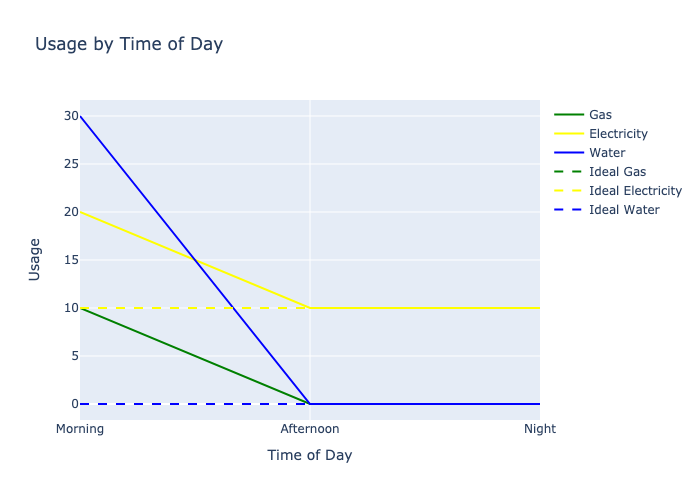
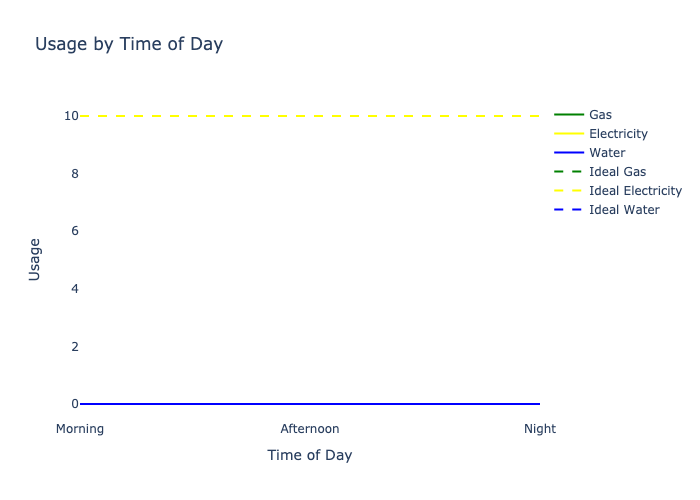
Day Overview view

diff --git a/frontend/src/pages/OverviewDay.tsx b/frontend/src/pages/OverviewDay.tsx
@@ -1,0 +1,92 @@
+import React, { useState, useEffect } from 'react'
+import Navbar from '../components/navbar/Navbar'
+import waves from '../wickedbackground.svg'
+
+type Costs = {
+  electricity: number;
+  gas: number;
+  water: number;
+};
+
+type Usage = {
+  electricity: number;
+  gas: number;
+  water: number;
+};
+
+function OverviewDay() {
+
+  const [graphData, setGraphData] = useState("");
+
+  const [totalCosts, setTotalCosts] = useState<Costs>({ electricity: 0, gas: 0, water: 0 });
+  const [totalUsage, setTotalUsage] = useState<Usage>({ electricity: 0, gas: 0, water: 0 });
+
+
+  useEffect(() => {
+    const fetchData = async () => {
+      const token = localStorage.getItem('token');
+      const response = await fetch('http://localhost:5000/daygraph', {
+        method: 'POST',
+        headers: {
+          'Content-Type': 'application/json',
+          'Authorization': `Bearer ${token}`
+        },
+        body: JSON.stringify({
+          "date": new Date().toISOString().split('T')[0]
+          // "date": "2024-01-01"
+        })
+      });
+
+      if (response.ok) {
+        const data = await response.json();
+        console.log(data);
+        setTotalCosts(data.data.total_costs);
+        setTotalUsage(data.data.total_usage);
+        setGraphData(data.data.graph);
+      } else {
+        console.log('Error:', response.status);
+      }
+    };
+
+    fetchData();
+  }, []);
+
+  
+
+  return (
+    <div className="h-screen bg-white flex items-center justify-center px-6 relative">
+      <img src={waves} alt="Waves" className="absolute bottom-0 left-0 w-full h-full" />
+      <div className="z-10 relative">
+        <Navbar selected={1}/>
+        
+        <div className="-mt-36">
+          <h1 className="text-4xl font-bold text-center">Overview</h1>
+          <h2 className="text-3xl font-bold text-center mt-16 mb-8">Today's Usage</h2>
+
+          <img src={graphData} alt="Graph" />
+
+          <div className="flex space-x-16 mt-16">
+            <div className="flex flex-col items-center space-y-2">
+              <h3 className="text-xl font-bold">Electricity</h3>
+              <p className="text-sm">Total: {totalUsage.electricity} kWh</p>
+              <p className="text-sm">Cost: {totalCosts.electricity} €</p>
+            </div>
+            <div className="flex flex-col items-center space-y-2">
+              <h3 className="text-xl font-bold">Gas</h3>
+              <p className="text-sm">Total: {totalUsage.gas} m³</p>
+              <p className="text-sm">Cost: {totalCosts.gas} €</p>
+            </div>
+            <div className="flex flex-col items-center space-y-2">
+              <h3 className="text-xl font-bold">Water</h3>
+              <p className="text-sm">Total: {totalUsage.water} m³</p>
+              <p className="text-sm">Cost: {totalCosts.water} €</p>
+            </div>
+          </div>
+        </div>
+      </div>
+    </div>
+  )
+
+}
+
+export default OverviewDay

diff --git a/frontend/src/App.tsx b/frontend/src/App.tsx
@@ -2,7 +2,7 @@ import React from 'react';
 import { BrowserRouter as Router, Route, Routes } from 'react-router-dom';
 import Register from './pages/auth/Register';
 import Login from './pages/auth/Login';
-import Overview from './pages/Overview';
+import OverviewDay from './pages/OverviewDay';
 import MyCalendar from './pages/calendar/MyCalendar';
 import AddData from './pages/AddData';
 import User from './pages/User';
@@ -16,7 +16,7 @@ function App() {
         <Route path="/register" element={<Register />} />
         <Route path="/login" element={<Login />} />
         <Route path="/" element={<h1>Home Page</h1>} />
-        <Route path="/overview" element={<Overview />} />
+        <Route path="/overview" element={<OverviewDay />} />
         <Route path="/calendar" element={<MyCalendar />} />
         <Route path="/createevent" element={<CreateEvent />} />
         <Route path="/newinput" element={<NewInput />} />

diff --git a/backend/app.py b/backend/app.py
@@ -243,10 +243,15 @@ def getUserDict(email):
 
 def getDayMorningUsage(email, date):
     day_data = consumption_data.find_one({'email': email, 'date': date, 'timeslot': 'Morning'})
+    if not day_data:
+        return [0, 0, 0]
     return [day_data["gas"], day_data["electricity"], day_data["water"]]
+        
 
 def getIdealDayMorningUsage(email, date):
     day_data = consumption_data.find_one({'email': email, 'date': date, 'timeslot': 'Morning'})
+    if not day_data:
+        return [0, ESSENTIAL_ENERGY, 0]
     if day_data["atHome"]:
         return [day_data["gas"], day_data["electricity"], day_data["water"]]
     else:
@@ -254,6 +259,14 @@ def getIdealDayMorningUsage(email, date):
 
 def getDayAfternoonUsage(email, date):
     day_data = consumption_data.find_one({'email': email, 'date': date, 'timeslot': 'Afternoon'})
+    if not day_data:
+        return [0, 0, 0]
+    return [day_data["gas"], day_data["electricity"], day_data["water"]]
+
+def getIdealDayAfternoonUsage(email, date):
+    day_data =consumption_data.find_one({'email': email, 'date': date, 'timeslot': 'Afternoon'})
+    if not day_data:
+        return [0, ESSENTIAL_ENERGY, 0]
     if day_data["atHome"]:
         return [day_data["gas"], day_data["electricity"], day_data["water"]]
     else:
@@ -261,6 +274,14 @@ def getDayAfternoonUsage(email, date):
 
 def getDayNightUsage(email, date):
     day_data = consumption_data.find_one({'email': email, 'date': date, 'timeslot': 'Night'})
+    if not day_data:
+        return [0, 0, 0]
+    return [day_data["gas"], day_data["electricity"], day_data["water"]]
+
+def getIdealDayNightUsage(email, date):
+    day_data = consumption_data.find_one({'email': email, 'date': date, 'timeslot': 'Night'})
+    if not day_data:
+        return [0, ESSENTIAL_ENERGY, 0]
     if day_data["atHome"]:
         return [day_data["gas"], day_data["electricity"], day_data["water"]]
     else:
@@ -355,8 +376,6 @@ def getDayGraph():
     afternoon_usage = getDayAfternoonUsage(email, date)
     night_usage = getDayNightUsage(email, date)
 
-
-
     timeslots = ['Morning', 'Afternoon', 'Night']
 
     fig = go.Figure()
@@ -371,8 +390,8 @@ def getDayGraph():
     fig.add_trace(go.Scatter(x=timeslots, y=[morning_usage[2], afternoon_usage[2], night_usage[2]], mode='lines', name='Water', line=dict(color='blue')))
 
     ideal_morning_usage = getIdealDayMorningUsage(email, date)
-    ideal_afternoon_usage = getDayAfternoonUsage(email, date)
-    ideal_night_usage = getDayNightUsage(email, date)
+    ideal_afternoon_usage = getIdealDayAfternoonUsage(email, date)
+    ideal_night_usage = getIdealDayNightUsage(email, date)
 
     # Ideal gas line (dashed green)
     fig.add_trace(go.Scatter(x=timeslots, y=[ideal_morning_usage[0], ideal_afternoon_usage[0], ideal_night_usage[0]], mode='lines', name='Ideal Gas', line=dict(color='green', dash='dash')))
@@ -480,6 +499,8 @@ def getRangeGraph():
         title='Usage from ' + start + ' to ' + end,
         xaxis_title='Date',
         yaxis_title='Usage',
+        paper_bgcolor='rgba(255,255,255,0.5)',
+        plot_bgcolor='rgba(255,255,255,0.5)'
     )
 
     fig.write_image("fig2.png")
